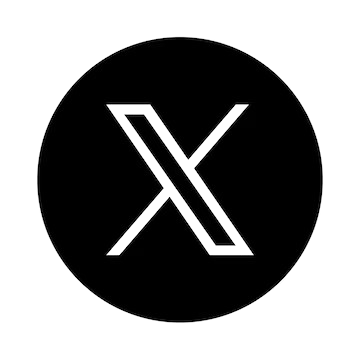
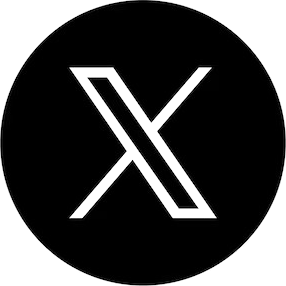
social network tweaks
Fix la taille des images pour qu'elles rendent toutes pareil

Changement de l'ombre de hover pour qu'elle aie la forme de l'image (ronde) + l'ombre est désormais blanche

diff --git a/style.css b/style.css
@@ -123,13 +123,12 @@ nav a:hover {
 }
 
 .Resbar > a:hover {
-    box-shadow: 0 5px 15px rgba(0, 0, 0, 0.2);
     transform: scale(1.05) translateX(-3px);
     z-index: 10;
 }
 
 .Resbar > a:hover img {
-     filter: invert(49%) sepia(89%) saturate(1906%) hue-rotate(1deg) brightness(120%) contrast(110%);
+     filter: invert(49%) sepia(89%) saturate(1906%) hue-rotate(1deg) brightness(120%) contrast(110%) drop-shadow(0 0 0.75rem white);
 }
 
 .glass {
